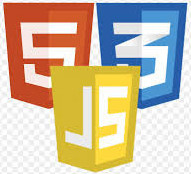
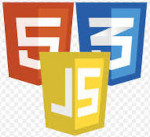
Improved pictures and added contents about me

diff --git a/index.html b/index.html
@@ -4,9 +4,23 @@
     <meta charset="UTF-8">
     <meta name="viewport" content="width=device-width, initial-scale=1.0">
     <title>chmendonca's projects</title>
+    <link rel="stylesheet" href="_estilos/geral.css">
     <link rel="stylesheet" href="_estilos/styles.css">
 </head>
 <body>
+    This is my personal site with my developments. These developments have been done during my studies and my own needs to solve any problem.
+
+    About me:
+    I'm a Mechatronic Engineer (2001) and Master in Aeronautical Engineer (2004).
+    I have worked on aeronautical industry since 2003 as "System Integration Test Engineer". Nowadays my field of work is engine and its controller integration tests on  RIGs. I'm very experienced on software test on simulated environment with real components (HIL) to validate and to verify how the system and its interfaces would behave in normal, failed and out of envelope conditions. These activities demmand wide knowlodge on "ARP4754" and "System Engineer" concepts.
+    This field of work makes me present on the aircraft entire lifecycle, from initial definition, Type certification, entry-into-service and fleet support.
+
+    On this site, my intention is to have a place to store and share my developments and knowlodge on the computational field. 
+    
+    I have scripted for a long time and I've tryed different languages but I'm confident using Python (2.7 and 3) that I've used on my work (creating scripts for test automation and test analysis) and my personal stuffs since 2008. 
+
+    During the quarentine, forced by COVID-19 (a few months on 2020), I decided to improve my Python skills besides of adding the Java and the set HTML5/CSS3/JavaScriptto my portfolio.
+    
     <main>
         <header>
             <h1>CLICK ON SOFTWARE IMAGE</h1>

diff --git a/_estilos/geral.css b/_estilos/geral.css
@@ -1,0 +1,1 @@
+@charset
